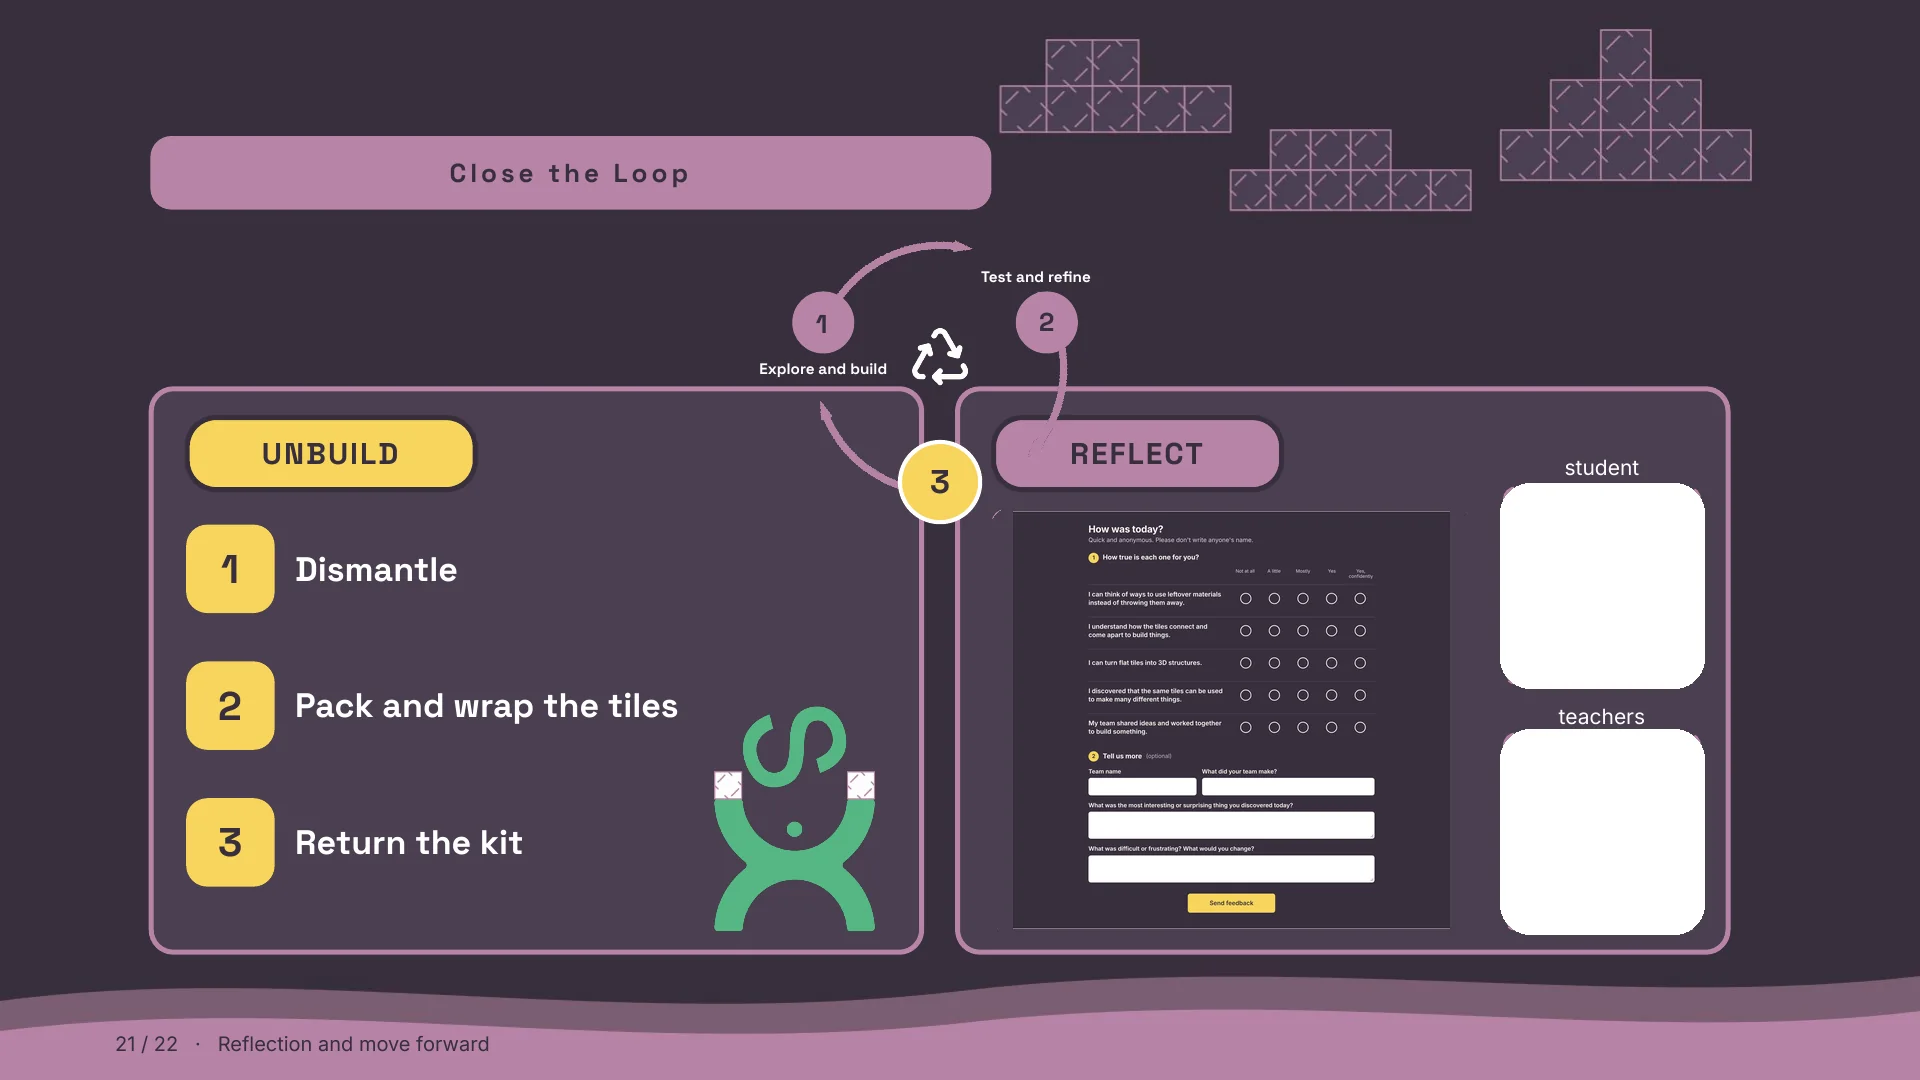
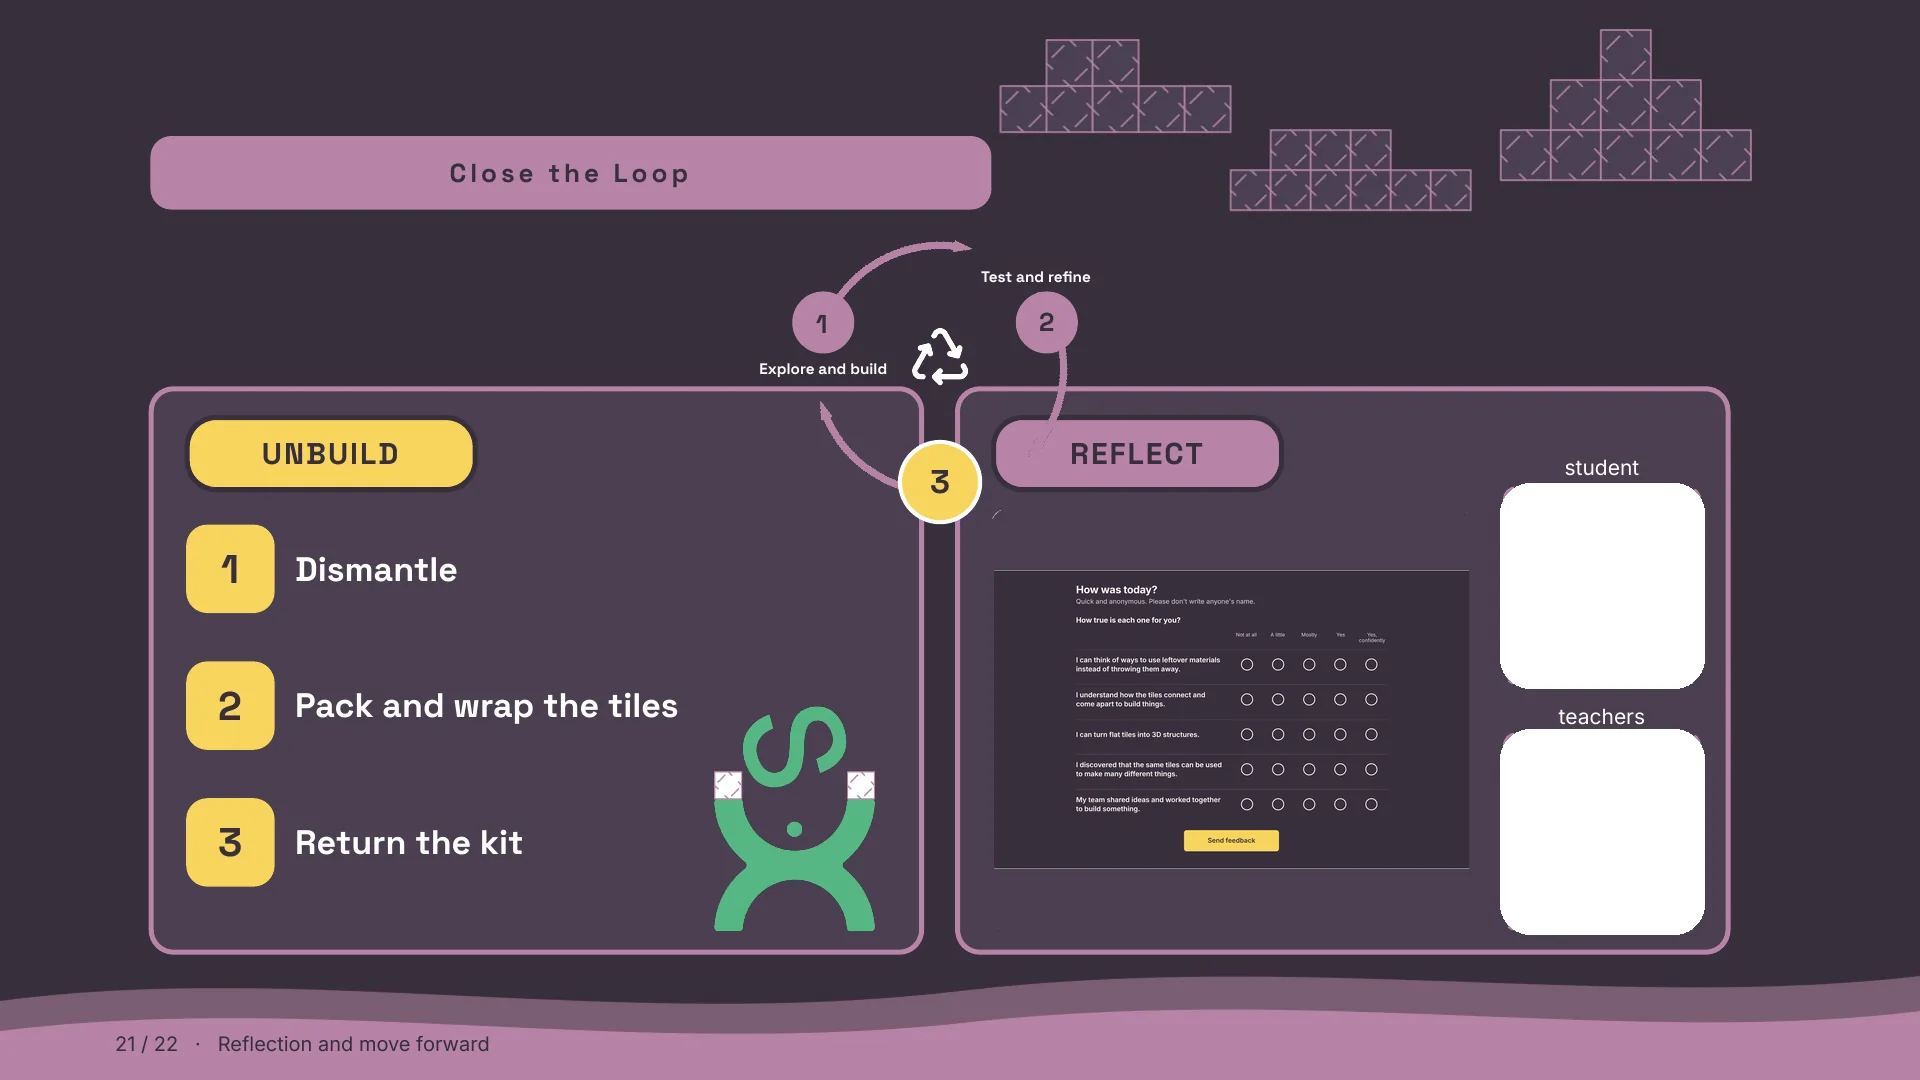
Workshop hub: bring back the student reflection questions; no on-slide clock during the introduction
- Student form: the reflection section is back, without the "(optional)" label
- Projector: the countdown pill appears from slide 16 (The challenge); slides 1 to 15 show no clock
- Slide 28 screenshot updated

Claude-Session: https://claude.ai/code/session_012WaFXB7ZStPCrgjGNusLz5

Changed region(s): [[0.5625, 0.4583, 0.7188, 0.8556]]

diff --git a/src/lib/constants/workshopDeck.ts b/src/lib/constants/workshopDeck.ts
@@ -33,6 +33,13 @@ export const deck = {
   anchors: { 1: 1, 16: 2, 25: 3, 26: 5, 27: 6 } as Record<number, number>,
 
   /**
+   * The countdown pill on the slides appears from this slide on (slide 16, "The challenge"). Before it,
+   * during the introduction, the slides show no clock. The facilitator window keeps its own timer, and
+   * T still opens the big clock.
+   */
+  clockFromSlide: 16,
+
+  /**
    * QR codes the hub draws onto the slides, over the empty white boxes in the deck. Each one is
    * made from the booking code of the workshop being run. Position and size are fractions of the
    * slide (left, top, width, height). `kind` says where it points:
